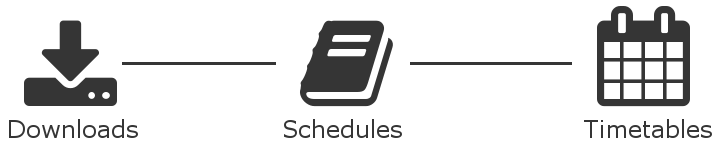
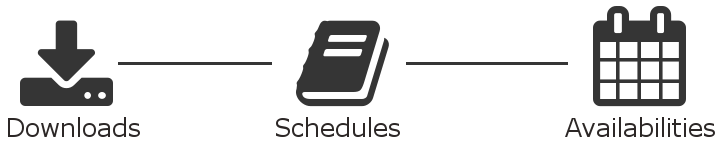
Refactored internal docs with new terms

diff --git a/views/about/getting-started.php b/views/about/getting-started.php
@@ -21,33 +21,45 @@
     <h4><?php _e('Step 1'); ?></h4>
     <p>
         <?php
-        _e('To create your first Booking head over to "Downloads" > "Add New". After entering the required
-                information for the Booking\'s title, description, categories, tags and so on, you can get right down
-                to the Booking details. ', $textDomain);
-        _e('Upon opening the New Download page, scroll down to the "Booking Options" metabox and check the "Enable
-                bookings for this download" checkbox. This will automatically remove all the unrequired metaboxes and
-                display the new Bookings settings.', $textDomain);
+        echo htmlentities(
+        __('To create your first Booking head over to "Downloads" > "Add New". After entering the required information
+            for the Download\'s title, description, categories, tags and so on, you can get right down to the Booking
+            Options. ', $textDomain)
+        );
+        _e('Scroll down to the "Booking Options" metabox and tick the "Enable bookings for this download" checkbox.
+            This will automatically show more booking options as well as remove all the unrequired metaboxes', $textDomain);
         ?>
     </p>
 
     <h4><?php _e('Step 2', $textDomain); ?></h4>
     <p>
         <?php
-        _e('Start by selecting the session length, the number of sessions each customer can book, as well as the cost
-                per session. ', $textDomain);
-        _e('Once these details have been filled in you can move on to "Schedule". This automatically selects an
-                option titled "Create new schedule and timetable." ', $textDomain);
-        _e('Leave this setting as is. The schedule and timetable will automatically be created for you and we can later
-                change the titles and details as needed. ', $textDomain);
-        _e('Last but not least you can choose whether to display the calendar in a multi-view page or post where you have added the EDD shortcodes.',
-                $textDomain);
+        _e('Start by selecting the session length, the number of sessions each customer can book and the cost per
+            session. Once these details have been filled in you can move on to "Schedule". This automatically selects an
+            option titled "Create new schedule and availability". Leave this setting as is; we can change the titles and
+            details of the auto-created schedule and availability later.', $textDomain);
         ?>
+    </p>
+    <p>
+        <?php
+        _e('Next you can choose if the service should use customer timezones. If you tick the option, date and times
+           shown on the site will be relative to the customer\'s timezone. This can be useful for international services
+           like web-cast consultancies but not recommended for local services, such as reservations.');
+        ?>
+    </p>
+    <p>
+        <?php
+        _e('Last but not least you can choose whether to display the calendar in a multi-view page/post that use the
+            EDD [downloads] shortcode. This depends mostly on your theme since some themes do not properly shown the
+            calendar.', $textDomain);
+        ?>
+    </p>
 
     <h4><?php _e('Step 3', $textDomain); ?></h4>
     <p>
         <?php
-        _e('Once the above details have been filled in you can move on to editing the schedule and timetable that were autoamtically
-            created for you, as explained below.', $textDomain);
+        _e('Once the above details have been filled and the Download has been saved, you can move on to editing the
+            schedule and availability that were autoamtically created.', $textDomain);
         ?>
     </p>
 </div>
@@ -61,12 +73,12 @@
         <h4><?php _e('Adding a Schedule', $textDomain); ?></h4>
         <p>
             <?php
-            _e('Click on the "Schedules" option under EDD Bookings and either "Add New" or open the automatically
-                created schedule for your first booking. ', $textDomain);
-            _e('When adding a new schedule you can select which Timetable to make use of. 
-                If you are editing an existing Schedule you will also see a Calender view of the existing bookings and 
-                two metaboxes on the right hand side. These show you the booking information when you click on an existing
-                booking in the calendar and list the bookable downloads using this schedule.', $textDomain);
+            _e('Click on the "Schedules" option under the EDD Bookings menu and choose either "Add New" or open the
+                automatically created schedule for your first booking. When adding a new schedule you can select which
+                Availability to make use of. If you are editing an existing Schedule you will also see a Calender view
+                of the bookings stored in this Schedule and two metaboxes on the right-hand side. These will show you
+                the booking information when you click on an existing booking in the calendar and a list the bookable
+                downloads using this schedule.', $textDomain);
             ?>
         </p>
         <p>
@@ -83,20 +95,21 @@
 <hr/>
 
 <div class="feature-section">
-    <h3><?php _e('Adding and Editing Timetables', $textDomain); ?></h3>
+    <h3><?php _e('Adding and Editing Availabilities', $textDomain); ?></h3>
     
     <div class="two-col-text">
-        <h4><?php _e('Adding a Timetable', $textDomain); ?></h4>
+        <h4><?php _e('Adding an Availability', $textDomain); ?></h4>
         <p>
             <?php
-            _e('Next head to the "Timetables" section of EDD Bookings and once again you can either create a new one or edit
-                the one that was automatically created with your first booking.', $textDomain);
-            _e('Within each Timetable you\'ll be able to set its availability rules and also view the Schedules
-                    currently making use of this timetable.', $textDomain);
+            _e('Next head to the "Availabilities" section of EDD Bookings menu and, once again, you can either create a
+                new one or edit the one that was automatically created with your first booking. Within each Availability
+                you\'ll be able to set the date and time rules and also view the Schedules that use this availability.',
+                $textDomain);
             ?>
-            <br/><br/>
+        </p>
+        <p>
             <?php
-            _e(sprintf('You can find more information on how to set up the Timetable Rules <a %s>in our
+            _e(sprintf('You can find more information on how to set up the Availability Rules <a %s>in our
                 documentation.</a>', 'href="http://docs.easydigitaldownloads.com/category/1100-bookings" target="_blank"'),
                     $textDomain);
             ?>
@@ -106,7 +119,7 @@
         </p>
     </div>
     <div class="col">
-        <h4><?php _e('Editing a Timetable', $textDomain); ?></h4>
+        <h4><?php _e('Editing an Availability', $textDomain); ?></h4>
         <p>
             <img src="<?php echo EDD_BK_IMGS_URL; ?>edit-timetable.png" />
         </p>

diff --git a/views/about/index.php b/views/about/index.php
@@ -10,17 +10,17 @@ $textDomain = eddBookings()->getI18n()->getDomain();
         <p>
             <?php
             _e('<b>This is a major update!</b> If you\'re updating from EDD Bookings v1.0.3 or earlier, you\'ll find
-            that we\'ve updated your settings for Downloads that had bookings enabled. We\'ve also automatically created a
-            Schedule and a Timetable for each of these downloads to preserve their functionality on your site.
+            that we\'ve updated the settings for your bookable Downloads. We\'ve also automatically created a
+            Schedule and an Availability for each of these downloads to preserve their functionality on your site.
             <i>Nothing has changed, but everything is new!</i>', $textDomain);
             ?>
         </p>
         <p>
             <?php
-            _e('Each of your Downloads\' calendar builder settings have been converted into Timetables, each of which is
-            assigned to its own Schedule. However, we <span class="important-red">highly recommend</span> that you go
-            over your Timetable settings to confirm their correctness. Some of the Calendar Builder rules now behave
-            differently, so you might want to tweak them to your needs.', $textDomain);
+            _e('Each of your Downloads\' calendar builder settings have been converted into Availabilities, each of
+            which is assigned to its own Schedule. However, we <span class="important-red">highly recommend</span> that
+            you go over your Availability settings to confirm their correctness. Some of the Calendar Builder rules now
+            behave differently, so you might want to tweak them to your needs.', $textDomain);
             ?>
         </p>
     </div>
@@ -29,7 +29,7 @@ $textDomain = eddBookings()->getI18n()->getDomain();
 <hr/>
 
 <div class="headline-feature feature-section one-col">
-    <h2><?php _e('Schedules &amp; Timetables', $textDomain); ?></h2>
+    <h2><?php _e('Schedules &amp; Availabilities', $textDomain); ?></h2>
     <div class="media-container">
         <img src="" />
     </div>
@@ -51,7 +51,8 @@ $textDomain = eddBookings()->getI18n()->getDomain();
         <p>
             <?php
             _e('Your bookable downloads make use of a <strong>Schedule</strong>, which works like a real-life diary 
-            to provide a structured way of recording all the bookings being made.', $textDomain);
+            to provide a structured way of recording all the bookings being made. When a booking is made, that booking
+            will be stored in the Download\'s Scehdule.', $textDomain);
             ?>
         </p>
         <p>
@@ -69,23 +70,24 @@ $textDomain = eddBookings()->getI18n()->getDomain();
 <div class="feature-section two-col">
     <div class="col">
         <center>
-            <img src="<?php echo EDD_BK_IMGS_URL; ?>schedules-timetables-rel.png" />
+            <img src="<?php echo EDD_BK_IMGS_URL; ?>schedules-availabilities-rel.png" />
         </center>
     </div>
     <div class="col">
-        <h3><?php _e('Timetables', $textDomain); ?></h3>
+        <h3><?php _e('Availabilities', $textDomain); ?></h3>
         <p>
             <?php
             _e(
-            'A <strong>Timetable</strong> is a definition of the dates and times your customers are allowed to book.
-            You\'ll be able to select the times, days, weeks and months that your service is available.', $textDomain);
+            'An <strong>Availability</strong> is a definition of the dates and times when you are available to provide
+            your services. You\'ll be able to select the times, days, weeks and months that your customers can book.',
+            $textDomain);
             ?>
         </p>
         <p>
             <?php
-            _e('Each one of your schedules is linked to a timetable, and multiple schedules can share a single
-            timetable. This is very useful when you offer the same avaialable times for multiple services 
-            since you won\'t need to create the same rules multiple times.', $textDomain);
+            _e('Each one of your schedules is linked to an availability, and multiple schedules can share a single
+            availability. This is very useful if, for instance, you are always available for the same times for multiple
+            services since you won\'t need to create the same rules more than once.', $textDomain);
             ?>
         </p>
     </div>
@@ -94,13 +96,13 @@ $textDomain = eddBookings()->getI18n()->getDomain();
 <hr/>
 
 <div class="changelog">
-    <h2><?php _e('Roadmap', $textDomain); ?></h2>
+    <h2><?php _e('Roadmap', $textDomain); ?> <small class="about-text"><?php _e('Coming Soon', $textDomain); ?></small></h2>
     <div class="under-the-hood three-col">
         <div class="col">
-            <h4><?php _e('Timetable Calendar Preview', $textDomain); ?></h4>
+            <h4><?php _e('Availability Calendar Preview', $textDomain); ?></h4>
             <p>
                 <?php
-                _e('A calendar preview for the Timetable editor is in the works to reflect changes while you edit.
+                _e('A calendar preview for the Availability editor is in the works to reflect changes while you edit.
                 We\'re also looking to make a few adjustments to the interface in order to make it more intuitive.', $textDomain);
                 ?>
             </p>

diff --git a/includes/Aventura/Edd/Bookings/Renderer/ServiceRenderer.php b/includes/Aventura/Edd/Bookings/Renderer/ServiceRenderer.php
@@ -166,7 +166,7 @@ class ServiceRenderer extends RendererAbstract
             </div>
             <div class="edd-bk-service-section edd-bk-service-links">
                 <label>
-                    <span><?php _e('Links', 'eddbk'); ?></span>
+                    <span></span>
                     <i class="fa fa-lg fa-pencil"></i>
                     <a href="<?php echo admin_url('post.php?post=%s&action=edit'); ?>" target="_blank" class="edd-bk-schedule-link">
                         <?php _e('Edit Schedule', 'eddbk'); ?></a>
